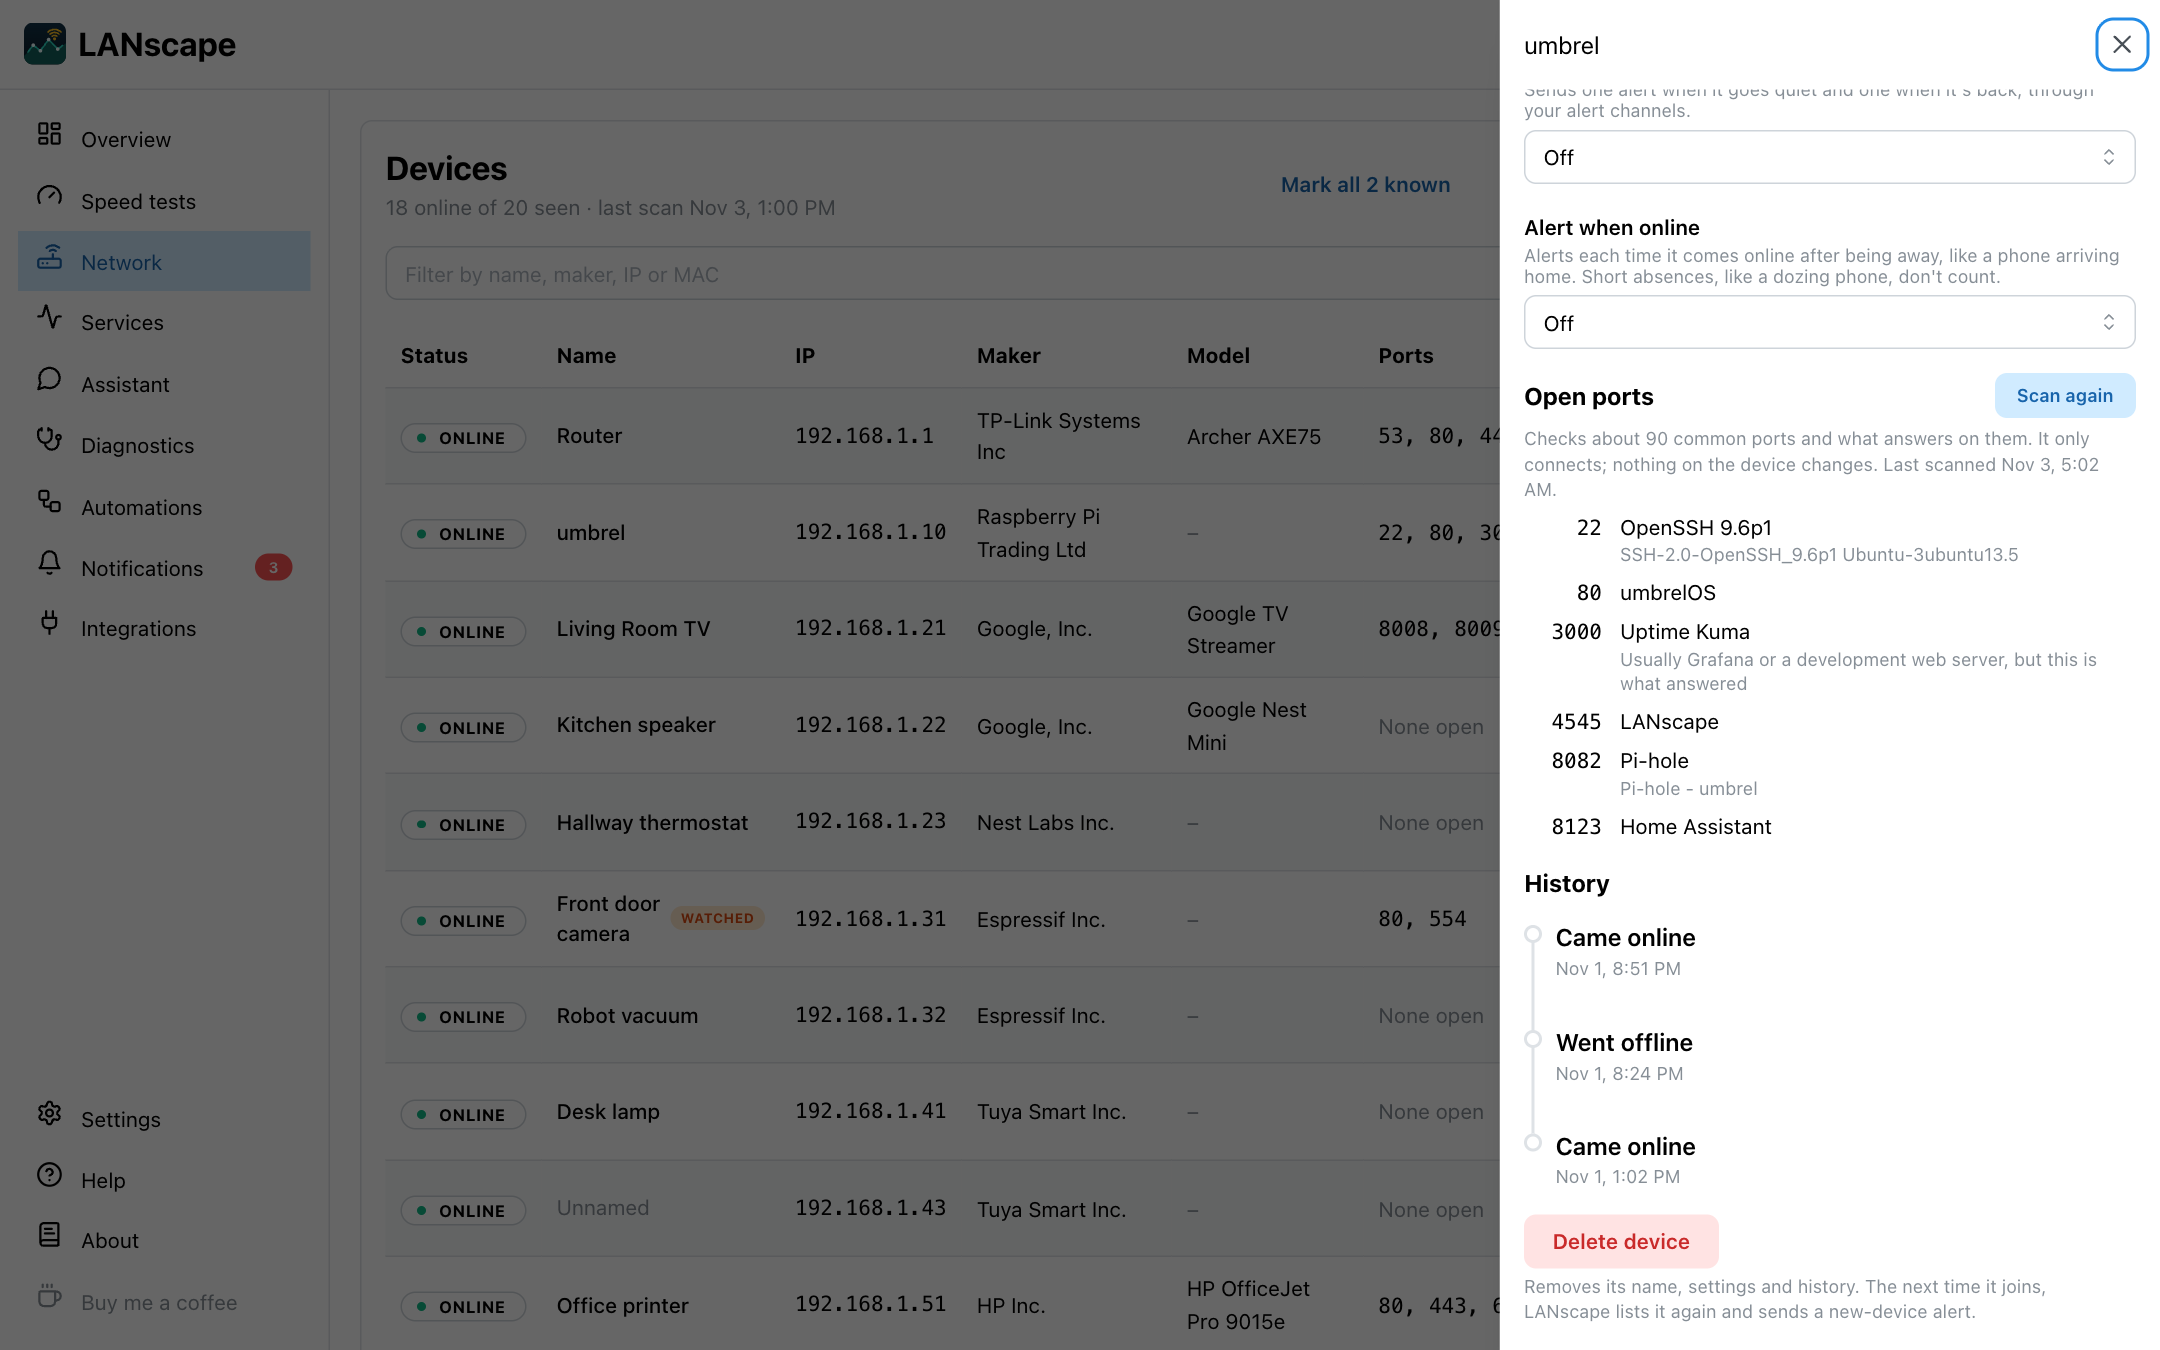
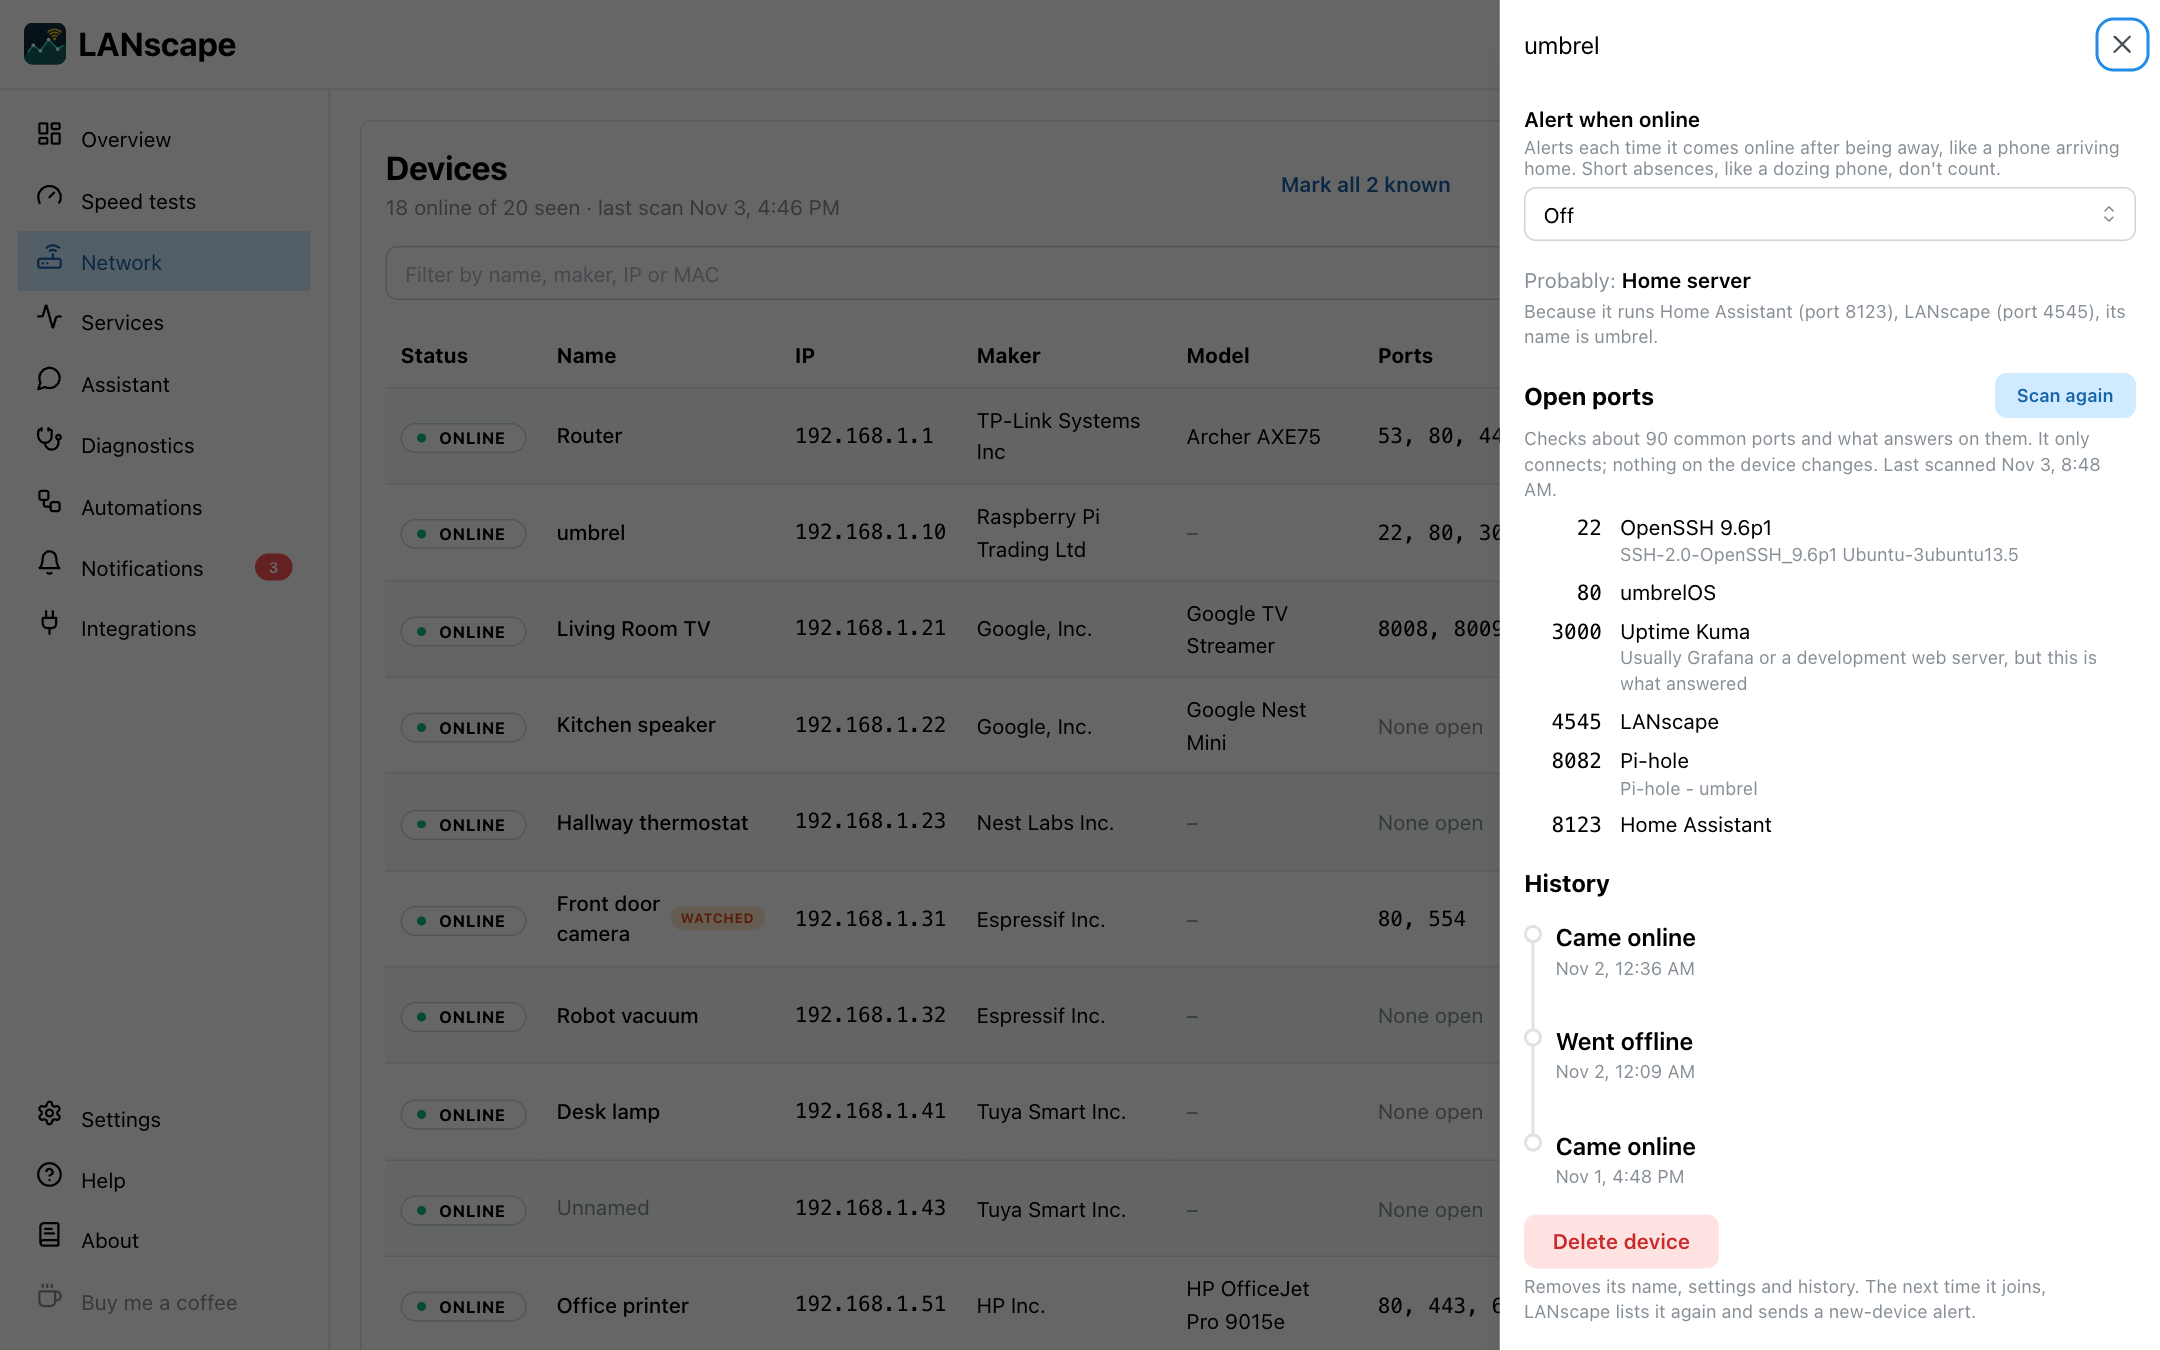
docs: pause and guess in Help, README, website, roadmap and screenshots; restore the Shipped heading

diff --git a/server/src/jobs/guess.ts b/server/src/jobs/guess.ts
@@ -18,8 +18,6 @@ const PORT_KINDS: [number[], string][] = [
   [[1400], "Sonos speaker"],
   [[9100, 631, 515], "Printer"],
   [[554, 8554], "Camera"],
-  [[32400], "Plex media server"],
-  [[8123], "Home Assistant"],
   [[3389], "Windows PC"],
   [[548], "Mac or NAS"],
   [[5000, 5001], "NAS"],
@@ -33,6 +31,7 @@ const HOSTNAME_KINDS: [RegExp, string][] = [
   [/^(desktop|laptop)-/i, "Windows PC"],
   [/macbook|imac|mac-?mini|mac-?studio/i, "Mac"],
   [/roku/i, "Roku"],
+  [/umbrel|nas|server/i, "Home server"],
   [/echo|alexa|kindle|fire-?tv/i, "Amazon device (Echo, Fire TV or Kindle)"],
   [/xbox/i, "Xbox"],
   [/playstation|ps[45]/i, "PlayStation"],
@@ -83,6 +82,15 @@ const DOMAIN_KINDS: [RegExp, string][] = [
   [/wyze(cam)?\.com$/, "Camera"],
 ];
 
+// Apps that mean the device is a home server (Umbrel, a NAS, a mini PC), named in the reason
+const SERVER_APPS: [number, string][] = [
+  [8123, "Home Assistant"],
+  [32400, "Plex"],
+  [4545, "LANscape"],
+  [8096, "Jellyfin"],
+  [9000, "Portainer"],
+];
+
 export const guessDevice = ({ vendor, hostname, traits, ports, domains }: Clues) => {
   // A device that names its own model needs no guess
   if (traits?.model) return null;
@@ -91,6 +99,8 @@ export const guessDevice = ({ vendor, hostname, traits, ports, domains }: Clues)
     const open = list.filter((port) => ports.includes(port));
     if (open.length) votes.push({ kind, weight: 3, reason: `port ${open.join(", ")} is open` });
   }
+  const apps = SERVER_APPS.filter(([port]) => ports.includes(port));
+  if (apps.length) votes.push({ kind: "Home server", weight: 3, reason: `it runs ${apps.map(([port, app]) => `${app} (port ${port})`).join(", ")}` });
   for (const [pattern, kind] of DOMAIN_KINDS) {
     const asked = domains.find((domain) => pattern.test(domain));
     if (asked) votes.push({ kind, weight: 3, reason: `it looks up ${asked}` });

diff --git a/docs/index.html b/docs/index.html
@@ -63,7 +63,7 @@
       <div class="card"><h3>Overview</h3><p>Internet up or down, a 0–100 health score, the latest speed, outages, services with trouble, new devices and recent alerts at a glance.</p></div>
       <div class="card"><h3>Speed tests</h3><p>On demand or on a schedule, with history from a day to all time and a weekly pattern against your plan speeds.</p></div>
       <div class="card"><h3>Outages, explained</h3><p>Ping checks every minute spot outages and tell whether the problem was your internet provider or your home network.</p></div>
-      <div class="card"><h3>Every device</h3><p>Maker, model and name for everything on your LAN, with history that follows phones across private MAC addresses.</p></div>
+      <div class="card"><h3>Every device</h3><p>Maker, model and name for everything on your LAN, a best guess at what the mystery ones are, and history that follows phones across private MAC addresses.</p></div>
       <div class="card"><h3>Open ports</h3><p>See which ports each device has open and what actually answers on them, like a Pi-hole on a port usually used for something else, and hear when a device opens a new one.</p></div>
       <div class="card"><h3>Service checks</h3><p>Watch Home Assistant, a NAS, Plex or Pi-hole over HTTP, TCP or DNS, and hear when they go down and come back.</p></div>
       <div class="card"><h3>Alerts</h3><p>Rules on speed, ping and packet loss, new and offline devices, through ntfy, Telegram, Discord, Slack or a webhook.</p></div>

diff --git a/server/src/jobs/guess.test.ts b/server/src/jobs/guess.test.ts
@@ -10,6 +10,10 @@ test("guesses from the strongest clues and says why", () => {
     reasons: ["it looks up scribe.logs.roku.com", "its maker is Roku, Inc."],
   });
   expect(guessDevice({ ...clues, vendor: "Private address", traits: { "dhcp-vendor": "android-dhcp-15" } })?.kind).toBe("Android phone or tablet");
+  expect(guessDevice({ ...clues, vendor: "Raspberry Pi Trading Ltd", hostname: "umbrel", ports: [22, 80, 8123, 32400] })).toEqual({
+    kind: "Home server",
+    reasons: ["it runs Home Assistant (port 8123), Plex (port 32400)", "its name is umbrel"],
+  });
 });
 
 test("no guess for a device that names its model, or when nothing hints at a kind", () => {

diff --git a/docs/HELP.md b/docs/HELP.md
@@ -80,6 +80,10 @@ A new private address is treated as a known device only when exactly one device 
 
 Listening for DHCP needs UDP port 67, so it stays off if another DHCP server runs on the same machine (such as Pi-hole's, if you turned it on).
 
+### What a device probably is
+
+When a device doesn't name its model, its panel shows a best guess, like **Probably: Camera** or **Probably: Roku**, with the clues behind it: open ports (8009 is Google Cast, 62078 an iPhone or iPad, 554 a camera…), the name it announces, what it says when it joins (an Android or Windows DHCP request), its maker, and, with Pi-hole connected, the domains it looks up (`roku.com`, `xboxlive.com`…). It's a guess: check the reasons before renaming the device.
+
 ### Open ports
 
 Open a device and select **Scan ports** to see which of about 90 common ports it has open (web pages, SSH, file sharing, printers, media servers, databases and so on) and what answers on each. LANscape reads the web page title, the server's name or the greeting a service sends, and names it when it recognizes it, like Pi-hole, Home Assistant, Plex or OpenSSH 9.6. When that isn't what usually runs on the port, it says so: *Uptime Kuma, usually Grafana or a development web server*. When a port accepts a connection but doesn't say what it is, you see what usually runs there.
@@ -95,6 +99,8 @@ Not sure what `Espressif Inc. · 192.168.0.43` is? Click **Identify a device**:
 3. If more than one device went quiet, turn it back on and scan once more. Only the one that comes back is it.
 
 Then name it right there.
+
+**With Pi-hole connected** there's a gentler way: open the device and select **Pause internet** (1, 2 or 5 minutes). Pi-hole answers every lookup from that device with "blocked", so whatever suddenly can't load anything is that device: open an app on the one you suspect. The device stays on your Wi-Fi and the pause ends by itself, even if LANscape restarts. LANscape does this with a Pi-hole group called *LANscape pause* that blocks everything, and puts the device back the way it was afterwards. It only works for devices that use Pi-hole for DNS, and an app that's already connected may keep working until it looks something up again.
 
 ## Services
 
@@ -183,7 +189,8 @@ If you run [Pi-hole](https://pi-hole.net) (version 6 or later), connecting it gi
 
 - **Names** for devices that don't announce one. Your own names and announced names still come first.
 - **A sign of life** for sleepy devices: a device that asked Pi-hole for something in the last 10 minutes counts as online, even if it slept through the scan. (Identify a device ignores this, so a device you just switched off isn't counted.)
-- **DNS activity** in each device's panel on the Network page: how many requests it made, how many were blocked, and the domains it asks for most. It helps tell what a mystery device is.
+- **DNS activity** in each device's panel on the Network page: how many requests it made, how many were blocked, and the domains it asks for most. It helps tell what a mystery device is, and feeds the device's *Probably* guess.
+- **Pause internet** for a device for a few minutes, to find out which one it is (see Identify a device).
 
 To connect, create an app password in Pi-hole (Settings → Web interface / API → Configure app password), then enter it with Pi-hole's address on the Pi-hole tab. On Umbrel the address is `http://localhost:8082`. LANscape tests the connection before saving it.
 

diff --git a/ROADMAP.md b/ROADMAP.md
@@ -3,9 +3,9 @@
 What's planned, and what shipped in which release. Tick items off in the PR that ships them; once a version is released it moves under Shipped, and anything still open moves to the next version. Core network monitoring must keep working without AI or external services.
 
 ## Waiting
-- [ ] **Official Umbrel App Store listing:** submitted as getumbrel/umbrel-apps#6285, waiting on review. Updated to 1.10.1 before any review; later versions go in update PRs once it's approved.
+- [ ] **Official Umbrel App Store listing:** submitted as getumbrel/umbrel-apps#6285, waiting on review. Kept on the latest release while it's in review (1.13.0); after approval, new versions go in update PRs.
 
-## v1.13.0 (next)
+## v1.14.0 (next)
 - [ ] **AI write actions (assistant and MCP):** let the assistant and MCP agents change LANscape's own data, starting with naming devices, then marking devices known, setting per-device online/offline alerts, adding service checks and turning alert rules on or off. Safeguards: the MCP server gets a separate write-scope token (the current one stays read-only); the assistant asks before each change and shows exactly what it will do; every change is logged with who made it and can be undone; and nothing touches the network itself (no router, DNS or firewall changes).
 
 ## v2.0.0
@@ -14,6 +14,12 @@ What's planned, and what shipped in which release. Tick items off in the PR that
   - Ship only the runtime pieces next to the bundle: better-sqlite3, the Prisma client runtime and the OUI data.
   - Move to `node:26-alpine`, checking better-sqlite3 on musl, arp-scan, traceroute and ping, on amd64 and arm64.
   - Major version because the container's startup and base change; data and settings carry over. A Go rewrite (~50–80 MB) was considered and not worth weeks of work and losing the shared tRPC types for the last ~80 MB.
+
+## Shipped
+
+### v1.13.0
+- [x] **Pause a device's internet (Pi-hole):** 1, 2 or 5 minutes from the device panel, through a Pi-hole group that blocks every lookup; the device goes back as it was afterwards, also after a restart. Identifies a device without unplugging anything.
+- [x] **What a device probably is:** a best guess (camera, Roku, Android phone…) from open ports, its announced name, DHCP details, maker and, with Pi-hole, the domains it looks up, with the reasons shown; also in the MCP device history.
 
 ### v1.12.0
 - [x] **New open port alerts:** after a scheduled or manual port scan, alert when a device has a port open that it didn't have before (like a camera suddenly answering on Telnet), and optionally when one closes. Nothing on the first scan of a device; an on/off switch with the other device alerts on the Notifications page; the alert names the port, what usually runs there and what answered.

diff --git a/README.md b/README.md
@@ -20,14 +20,14 @@ Install it from an Umbrel app store: it's in the [SZ community app store](https:
 - **Device list** from ARP scans every 5 minutes: IP, MAC, maker (from the IEEE OUI registry), model, names announced over mDNS, UPnP and DHCP, and your own names. Includes the Umbrel itself.
 - **Devices keep their identity across private MAC addresses**, matched by the stable ids they announce (Google Cast, AirPlay, HomeKit, UPnP), what they say when they join (DHCP), or their name.
 - **Open ports** per device, on demand or on a schedule, with what actually answers on each one (Pi-hole, Home Assistant, Plex, OpenSSH...) next to what usually runs on that port, and an alert when a device opens a new one.
-- **Identify a device** by switching it off and on between scans.
+- **Identify a device** by switching it off and on between scans, or, with Pi-hole, by pausing its internet for a few minutes; plus a best guess at what each device is (camera, Roku, Android phone…) and why.
 - **Per-device history and alerts:** mark devices as known, see when each came and went, and get alerted when a chosen device has been offline for a while or comes back online, like a phone arriving home. Delete a device to hear about it as new next time.
 - **Notification rules** on any measurement, against a fixed value or a percentage from the 7-day median, with a "how long" window. Each rule alerts once when a problem starts and once when it clears. Also alerts when a new device joins, and optionally when an unknown one comes back.
 - **Alert channels:** ntfy, Telegram (the bot answers messages with your chat ID), Discord, Slack and a generic JSON webhook.
 - **Automations page** to schedule speed tests, ping checks, device scans and port scans, run any of them now, and see each job's last run and errors.
 - **Choose the speed test server**, or let it pick the nearest.
 - **CSV export** of speed tests, ping checks and devices.
-- **Pi-hole integration:** names for devices that don't announce one, DNS activity per device, and fewer sleepy devices shown as away.
+- **Pi-hole integration:** names for devices that don't announce one, DNS activity per device, fewer sleepy devices shown as away, and pausing a device's internet to identify it.
 - **AI assistant:** ask about your network in plain language, with Claude, OpenAI, or a model on your own network such as Ollama. Read-only, shows the data behind each answer, and says where your data goes.
 - **MCP server for AI agents:** read-only tools for OpenClaw, Claude and other MCP clients to answer questions about your network, behind a token you can replace or turn off, with a log of their requests.
 - **Backup and restore** of everything in one file, optionally encrypted with a passphrase, with a preview before restoring and an undo after.
